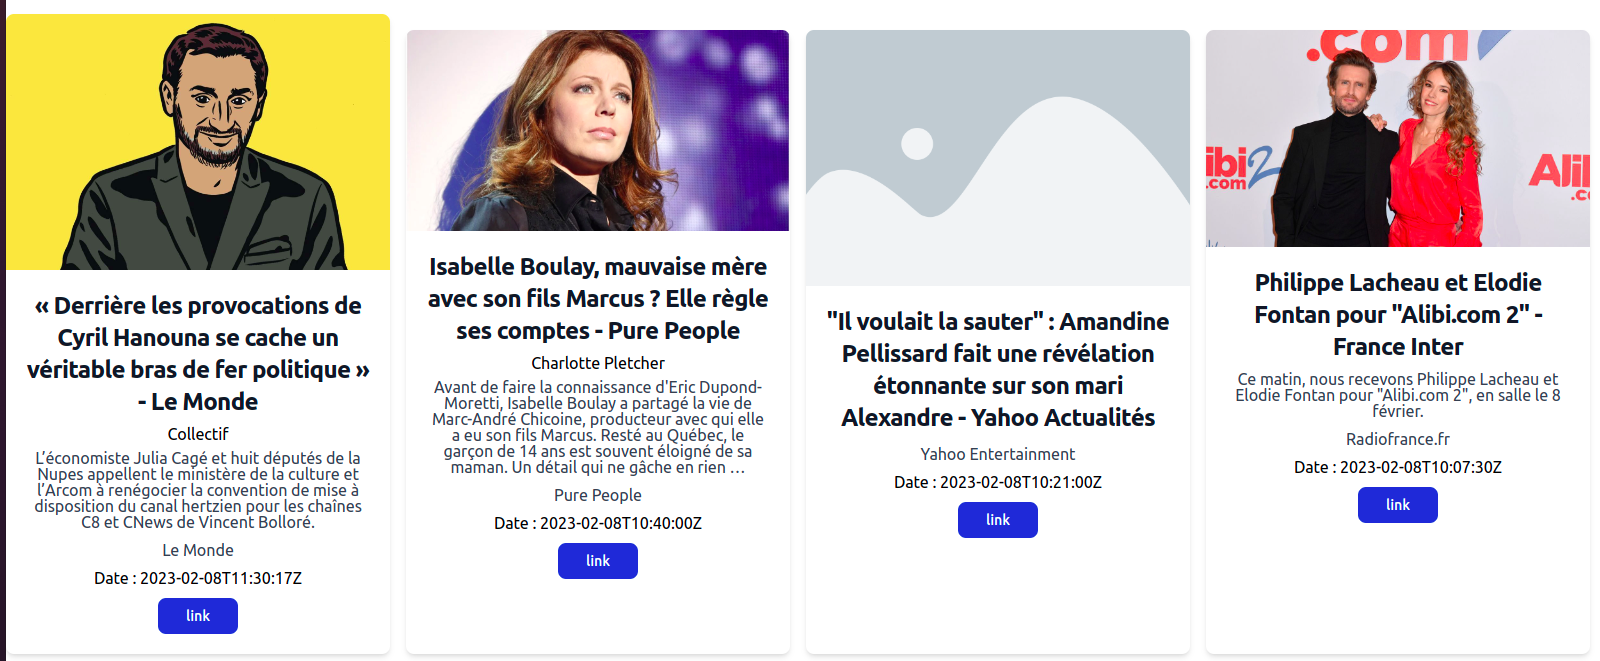
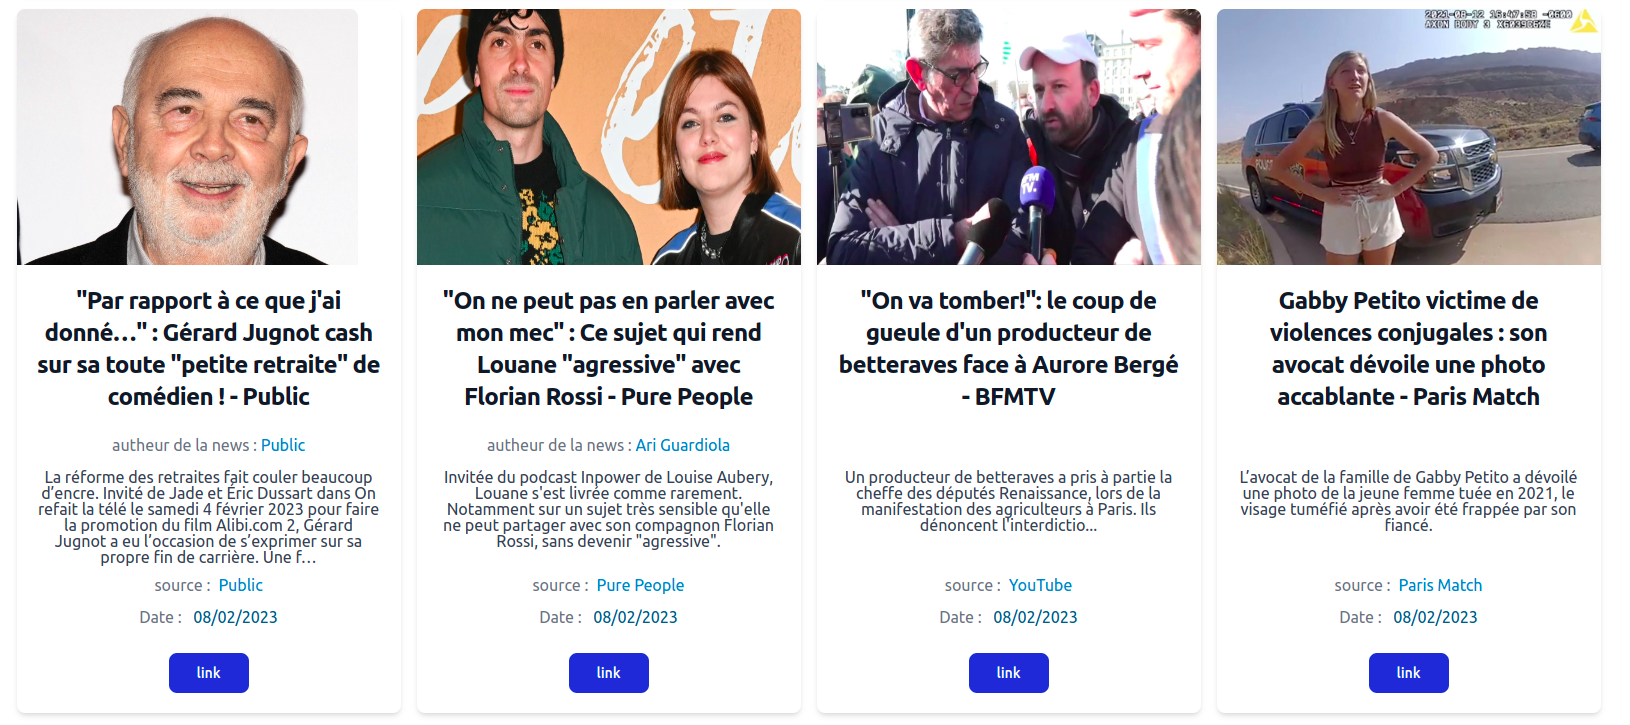
style card articles

diff --git a/src/components/Cards/CardArticle.tsx b/src/components/Cards/CardArticle.tsx
@@ -15,41 +15,61 @@ export interface IArticleCategory {
 const CardArticle = (props: { article: IArticle }) => {
   const { article } = props;
 
+  const date = new Date(article.publishedAt);
+  const frDate = date.toLocaleDateString('fr-FR');
+
   // const likeBtn = document.getElementById('like') as HTMLButtonElement | null;
 
   return (
-    <div className='max-w-sm bg-white border border-gray-200 rounded-lg shadow-md dark:bg-gray-800 dark:border-gray-700'>
-      <img
-        className='rounded-t-lg'
-        src={article.urlToImage ? article.urlToImage : placeholder}
-        alt={article.title}
-      />
+    <div className='flex justify-center'>
+      <div className='max-w-sm bg-white border border-gray-200 rounded-lg shadow-md card-article dark:bg-gray-800 dark:border-gray-700'>
+        <img
+          className='h-64 rounded-t-lg'
+          src={article.urlToImage ? article.urlToImage : placeholder}
+          alt={article.title}
+        />
 
-      <div className='p-5'>
-        <h5 className='mb-2 text-2xl font-bold tracking-tight text-gray-900 dark:text-white'>
-          {article.title}
-        </h5>
+        <div className='p-5'>
+          <h5 className='text-2xl font-bold tracking-tight text-gray-900 dark:text-white'>
+            {article.title}
+          </h5>
 
-        <div className='mb-2'>{article.author}</div>
+          {article.author ? (
+            <div className='h-8 my-6 text-gray-500'>
+              autheur de la news :{' '}
+              <span className='text-sky-600'>{article.author}</span>
+            </div>
+          ) : (
+            <div className='h-8 my-6 bg-transparent'></div>
+          )}
 
-        <p className='mb-3 font-normal text-gray-700 dark:text-gray-400'>
-          {article.description}
-        </p>
-        <p className='mb-3 font-normal text-gray-700 dark:text-gray-400'>
-          {article.source.name}
-        </p>
+          {article.description ? (
+            <p className='h-24 mb-3 font-normal text-gray-700 dark:text-gray-400'>
+              {article.description}
+            </p>
+          ) : (
+            <p className='h-24 mb-3 bg-transparent'></p>
+          )}
 
-        <h4 className='mb-3'>Date : {article.publishedAt}</h4>
+          <p className='h-8 mt-6 text-gray-500'>
+            source :
+            <span className='ml-2 text-sky-600'>{article.source.name}</span>
+          </p>
 
-        <div className='flex justify-center w-20 bg-blue-700 rounded-lg hover:bg-blue-800 cardImg'>
-          <a
-            href={article.url}
-            target='_blank'
-            rel='noreferrer'
-            className='inline-flex items-center px-3 py-2 text-sm font-medium text-center text-white absol'
-          >
-            link
-          </a>
+          <h4 className='h-8 mb-3 text-gray-500'>
+            Date : <span className='ml-2 text-sky-800'> {frDate}</span>
+          </h4>
+
+          <div className='flex justify-center w-20 h-10 bg-blue-700 rounded-lg ottom-0 hover:bg-blue-800 cardImg'>
+            <a
+              href={article.url}
+              target='_blank'
+              rel='noreferrer'
+              className='inline-flex items-center px-3 py-2 text-sm font-medium text-center text-white absol'
+            >
+              link
+            </a>
+          </div>
         </div>
       </div>
     </div>

diff --git a/src/pages/News.tsx b/src/pages/News.tsx
@@ -4,7 +4,6 @@ import IArticle from '../interfaces/ArticleInterface';
 import CardArticle from '../components/Cards/CardArticle';
 import notAllowed from '../assets/not allowed.png';
 import apiNewsPreview from '../assets/preview.png';
-import apiNewsPreview2 from '../assets/apinews apperçu.png';
 
 const News: React.FunctionComponent = () => {
   const [news, setNews] = useState<IArticle[] | null>(null);
@@ -102,11 +101,6 @@ const News: React.FunctionComponent = () => {
         <img
           className='rounded-t-lg'
           src={apiNewsPreview}
-          alt='Preview of what it looks like on localhost with newsapi.org'
-        />
-        <img
-          className='rounded-t-lg'
-          src={apiNewsPreview2}
           alt='Preview of what it looks like on localhost with newsapi.org'
         />
       </>
